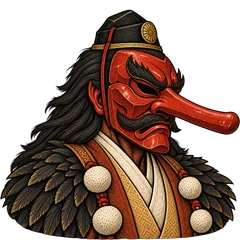
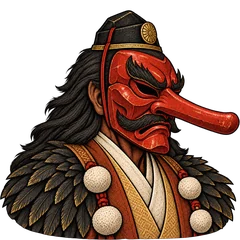
Sojobo: updated portrait

diff --git a/oh-app.js b/oh-app.js
@@ -210,7 +210,7 @@ class GameController {
     const onRight = pos === "right" || pos === "topright";   // the outer side; everyone looks in to the middle
     // a portrait drawn in three views shows the one that looks in, rather than being mirrored
     const file = PORTRAIT_VIEWS[who] ? `${who}-${onRight ? "l" : "r"}` : who;
-    if (p.dataset.file !== file) { p.dataset.file = file; p.dataset.who = who; p.style.backgroundImage = `url("img/opp-${file}.webp?v=2")`; }
+    if (p.dataset.file !== file) { p.dataset.file = file; p.dataset.who = who; p.style.backgroundImage = `url("img/opp-${file}.webp?v=3")`; }
     p.classList.toggle("on-right", onRight);
     p.style.setProperty("--lean", onRight ? "-1" : "1");   // which way is "towards the table" for a reaction
     p.classList.toggle("flip", onRight && !PORTRAIT_VIEWS[who] && !PORTRAIT_FRONT[who]);

diff --git a/index.html b/index.html
@@ -477,7 +477,7 @@
   <script src="./bv-more.js?v=224"></script>
   <script src="./oh-souls.js?v=226"></script>
   <script src="./oh-music.js?v=1"></script>
-  <script src="./oh-app.js?v=263"></script>
+  <script src="./oh-app.js?v=264"></script>
   <script>
     BVMore.init({ key: "oh-hell-extended", title: "Oh Hell! Extended", others: ["drakeharbour", "german-whist", "artifact"],
       shareText: "Bid your tricks, then win exactly that many. Play Oh Hell! Extended.",

diff --git a/tools/cut-portraits.py b/tools/cut-portraits.py
@@ -119,7 +119,7 @@ SHEETS = [("infernal/infernal-opponents-sheet-1.png", 4, 2, NAMES[0]),
           ("infernal/anubis-charon-hecate-ereshkigal-right.png", 4, 1, ["anubis", "charon", "hecate", "ereshkigal"]),
           ("infernal/ammit-kali-necro-tengu-right.png", 4, 1, ["ammit", "kali", None, None]),   # None: not used
           ("infernal/necro-right-v2.png", 1, 1, ["ronnie"]),   # The Necro(mancer)
-          ("infernal/tengu-mask-right-v2.png", 1, 1, ["sojobo"])]   # king of the tengu
+          ("infernal/sojobo-mask-right-v3.png", 1, 1, ["sojobo"])]   # king of the tengu
 for path, cols, rows, names in SHEETS:
     sheet = Image.open(path).convert("RGBA")
     masks = sheet_masks(sheet, cols, rows)
